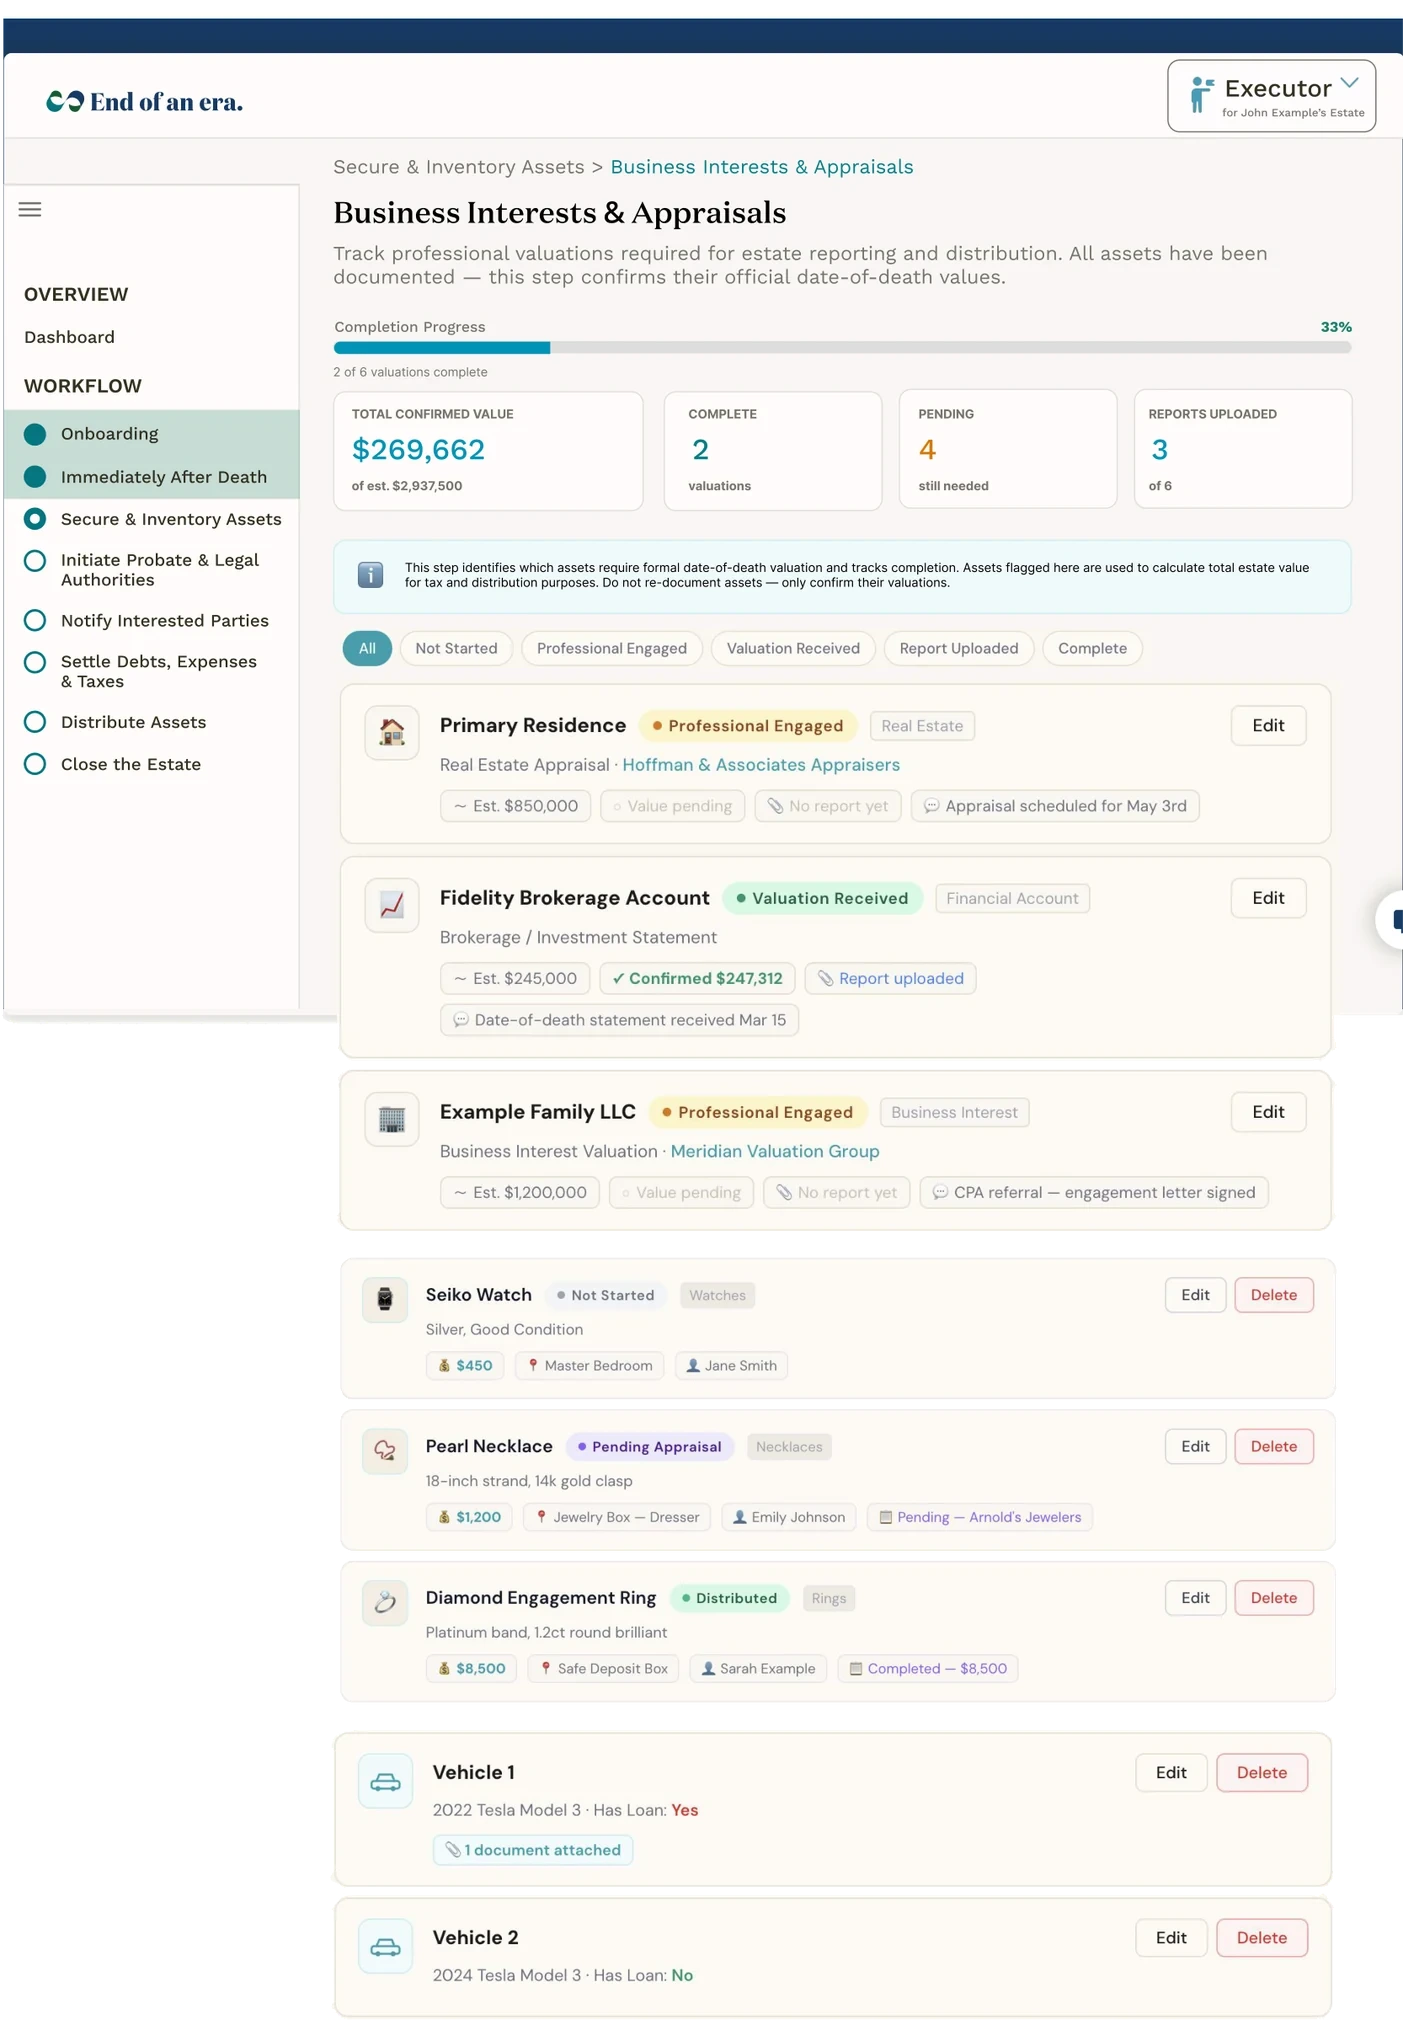
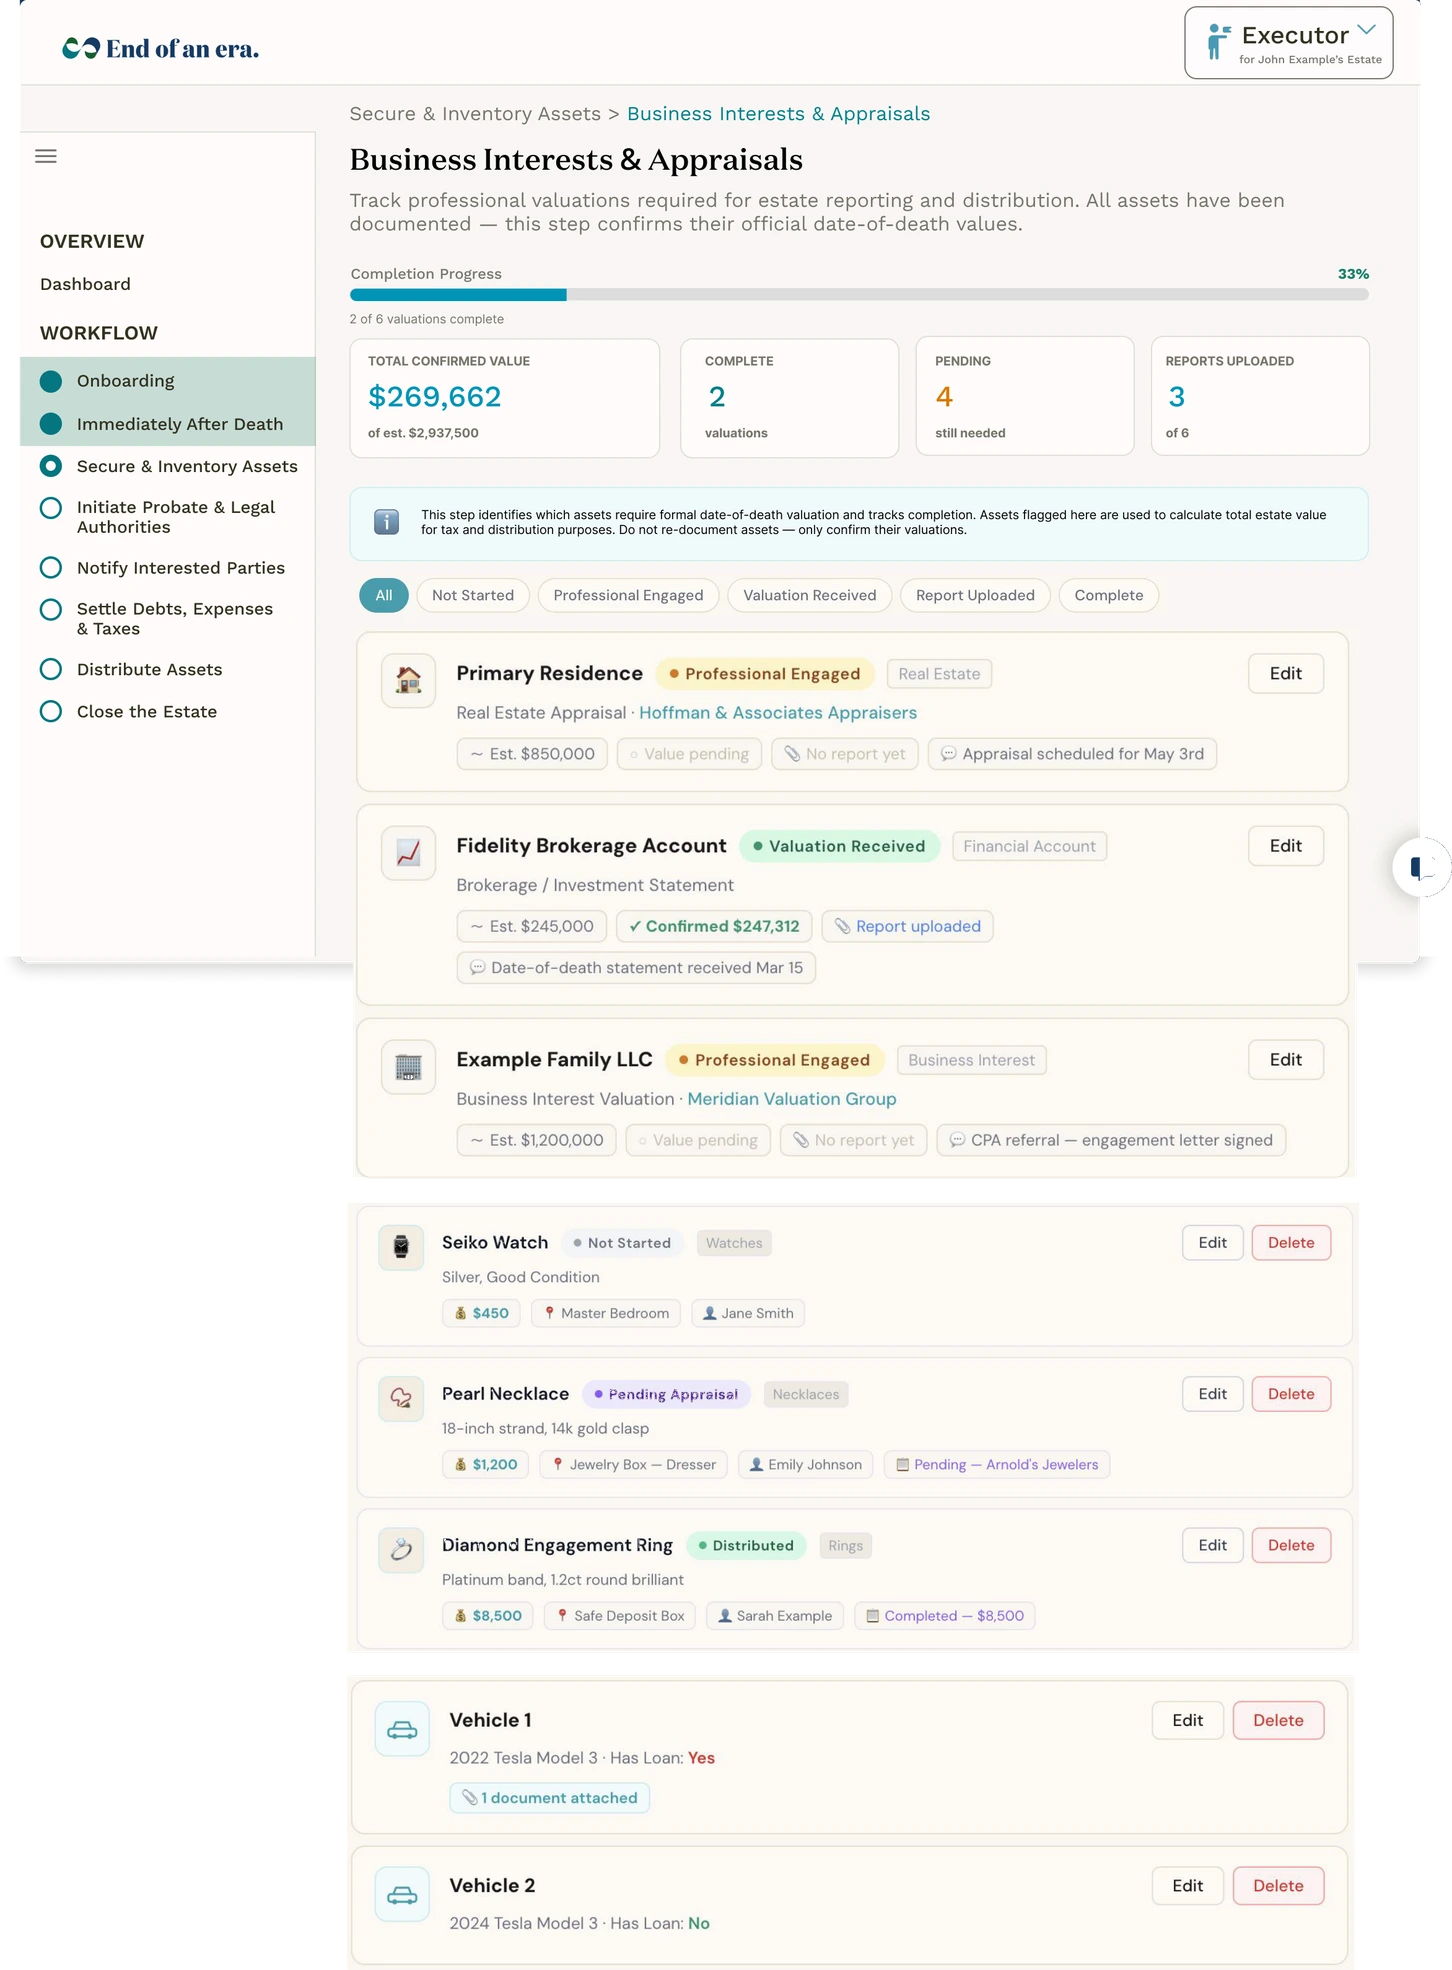
End of an Era: new page hero; clean Business Interests & Appraisals screen from Frame 399 (tools/eoe_business_solid.py)

diff --git a/app/work/end-of-an-era/page.tsx b/app/work/end-of-an-era/page.tsx
@@ -236,7 +236,7 @@ export default function EndOfAnEra() {
         <div className="relative grid overflow-hidden rounded-[14px] md:h-[calc(100vh-24px)] md:min-h-[560px] md:grid-cols-2">
           <div className="relative aspect-[4/3] md:aspect-auto">
             {/* eslint-disable-next-line @next/next/no-img-element */}
-            <img src={`${E}/page-hero.jpg`} alt="End of an Era on a laptop on a wooden table: the Inventory Real Estate & Vehicles step" className="absolute inset-0 h-full w-full object-cover" />
+            <img src={`${E}/page-hero-v2.jpg`} alt="End of an Era on a laptop on a wooden table: the Inventory Real Estate & Vehicles step" className="absolute inset-0 h-full w-full object-cover" />
             <BackLink href="/#work" className="absolute left-4 top-4 rounded-[6px] bg-black/30 px-2.5 py-1.5 text-[11px] text-white/80 backdrop-blur-sm transition-colors hover:text-white">
               <span>←</span> Work
             </BackLink>

diff --git a/app/work/end-of-an-era/frames.ts b/app/work/end-of-an-era/frames.ts
@@ -37,7 +37,7 @@ export const FRAMES = {
   "personal-noplanner-2": { w: 1100, h: 1764, win: null },
   "personal-noplanner-3": { w: 1408, h: 1024, win: [3, 20, 1400, 995] },
   "business-noplanner-1": { w: 1427, h: 1356, win: [7, 20, 1400, 1009] },
-  "business-noplanner-2": { w: 1403, h: 2020, win: [3, 20, 1400, 995] },
+  "business-noplanner-2": { w: 1452, h: 1970, win: [20, 0, 1400, 956] },
   "liab-planner-1": { w: 1414, h: 1734, win: [7, 20, 1400, 939] },
   "liab-planner-2": { w: 1415, h: 1102, win: [5, 20, 1400, 1001] },
   "liab-planner-3": { w: 1408, h: 1027, win: [3, 20, 1400, 995] },
